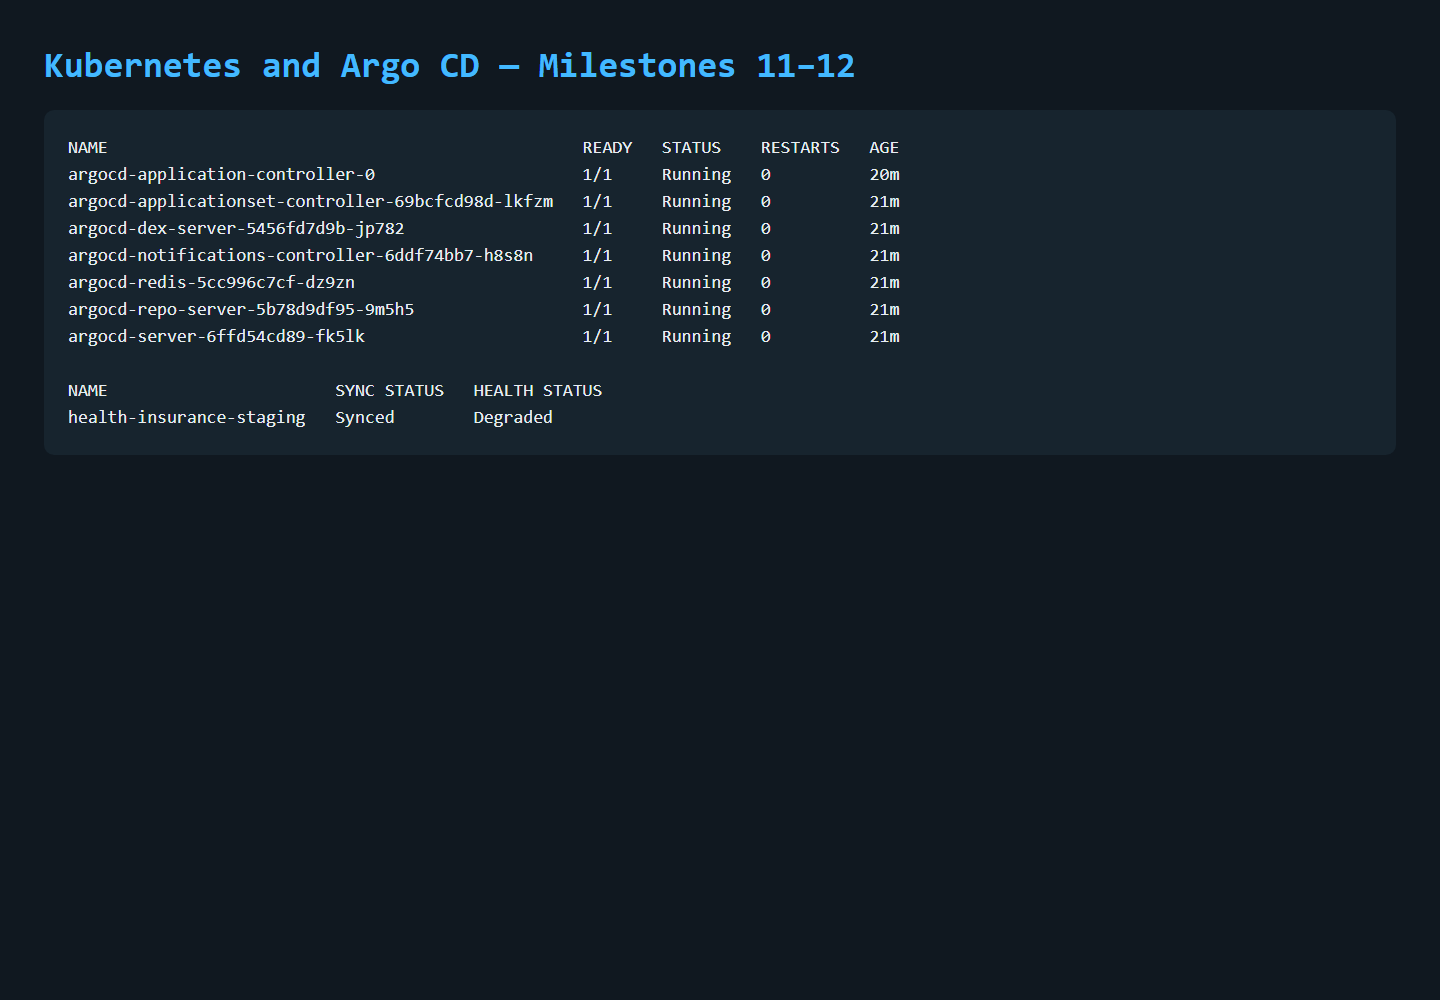
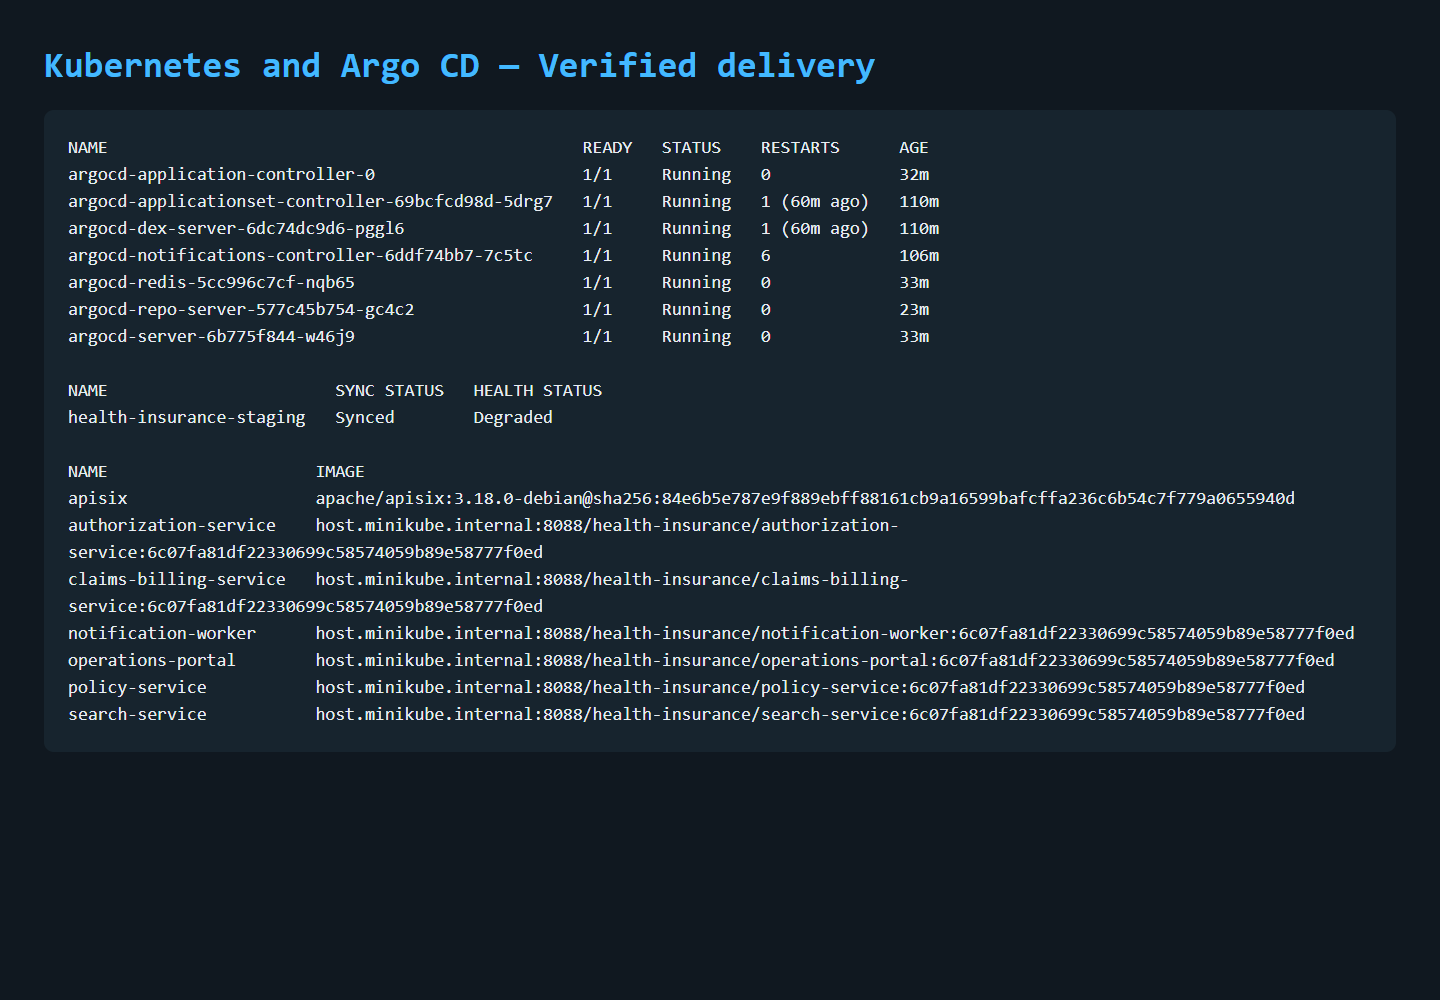
docs(devops): record verified delivery chain

diff --git a/README.md b/README.md
@@ -337,30 +337,30 @@ See the [Milestone 11 completion record](docs/milestones/milestone-11-kubernetes
   desired state to Kubernetes.
 - The verified checkpoint contained seven Ready Argo CD control-plane pods and
   a `health-insurance-staging` Application with `Synced` state and a `Succeeded`
-  operation at Git revision `a56fff2a14405d3024b98f357b1c3b38edd8384b`.
+  operation at desired-state revision `c9c1baa496df1c0126648573c5f25a75f6967a5c`.
 - Registry failures are resumable publication failures: successful tests and
   Quality Gates are not repeated merely to retry Nexus or Harbor. Trivy remains
   optional because it is outside the vacancy scope and disproportionate for
   this laptop-based educational environment.
 
-Build #7 provides successful Java/React, SonarQube, Quality Gate, Nexus, and
-SBOM evidence. Its final Harbor stage exposed an HTTP/HTTPS local-registry
-mismatch; the existing images were reused and published independently after the
-endpoint correction. The committed Jenkins configuration contains that fix. A
-single all-green rerun was intentionally not performed solely to recreate
-already-successful stages.
+Build #10 is the final all-green pipeline proof for source revision
+`6c07fa81df22330699c58574059b89e58777f0ed`: Java/React verification, SonarQube
+Quality Gate, Nexus publication with provenance, SBOM generation, and six Harbor
+image publications all succeeded. No Jenkins build was run after this proof.
 
 The existing Jenkins/SonarQube stack was started again with `--no-build` on
 15 September 2026. All three quality containers were healthy, Jenkins-to-Sonar
 network access and the webhook were valid, and SonarQube reported Quality Gate
-`OK` for Build #7's exact Git revision. The authenticated evidence is recorded
+`OK` for Build #10's exact Git revision. Overall coverage was `80.3%`, with zero
+new violations. The authenticated evidence is recorded
 in the [Jenkins and SonarQube verification guide](docs/development/jenkins-sonarqube-local-verification.md).
 
 The persisted Nexus instance was also revalidated without building, pulling or
 republishing. Six Maven snapshot components were available through the scoped
 publisher role. Anonymous repository access was disabled and verified as `403`;
-authenticated artifact download remained successful. Coordinates, the sampled
-JAR hash and the remaining Git-SHA metadata gap are recorded in the
+authenticated artifact download remained successful. Build #10 additionally
+published five provenance classifiers containing Git SHA, build URL, and JAR
+SHA-256; the evidence is recorded in the
 [Nexus verification guide](docs/development/nexus-local-verification.md).
 
 Harbor was then restored from existing 2.15.2 images without rebuilding any
@@ -841,12 +841,10 @@ execution:
 .\scripts\validate-supply-chain.ps1
 ```
 
-The real local checkpoint proved Jenkins Java/React quality stages, SonarQube
-Quality Gate, Nexus publication, CycloneDX archives, six Harbor repositories,
-seven Ready Argo CD pods, and a successful GitOps sync. Build #7's overall red
-status is retained as honest evidence of the Harbor HTTP/HTTPS mismatch; Harbor
-publication was resumed independently after correcting the endpoint. No claim
-is made that an unexecuted all-green rerun occurred.
+The real local checkpoint proved Jenkins Build #10 end to end: Java/React
+quality, SonarQube Quality Gate, Nexus artifacts and provenance, CycloneDX
+archives, six Harbor images with matching OCI revision labels, seven Ready Argo
+CD pods, and a successful GitOps sync of the same immutable image revision.
 
 Validate the living portfolio documentation separately. This command checks
 local Markdown links, JSON and PowerShell syntax, the expected screenshot set,
@@ -1052,8 +1050,8 @@ Nexus Community Edition, publishes immutable full-Git-SHA OCI tags to the
 private Harbor project, and hands the same image revision to the Argo CD
 staging Application. The local proof ended with all seven Argo CD pods Ready,
 Application `Synced`, operation `Succeeded`, at Git revision
-`3ce1d4a93e94b670b237a4a387d5be7028696be0`; the six private SHA-tagged images
-were pulled with runtime-only credentials and matched Harbor manifest digests.
+`c9c1baa496df1c0126648573c5f25a75f6967a5c`; all six Deployment specifications
+use Build #10 source/image revision `6c07fa81df22330699c58574059b89e58777f0ed`.
 See [ADR-014](docs/adr/014-local-ci-cd-software-supply-chain.md), the
 [CI/CD architecture](docs/architecture/ci-cd-supply-chain.md), and the
 [repeatable demo](docs/demo/milestone-12-ci-cd-demo.md). Trivy is intentionally

diff --git a/docs/architecture/ci-cd-supply-chain.md b/docs/architecture/ci-cd-supply-chain.md
@@ -20,19 +20,18 @@ flowchart LR
 | Boundary | Evidence |
 |---|---|
 | Git | `main` contains the pipeline and immutable GitOps revision |
-| Jenkins | Build #7 reached successful tests, frontend, Sonar, Nexus and SBOM stages |
-| SonarQube | Blocking Quality Gate succeeded |
-| Nexus | Authorization smoke upload and all Jenkins Maven publications succeeded |
-| Harbor | Six existing service images were pushed with tag `7fc3ea6b1086d3f5be2d7adeb9f43bda6bd6ad8d` |
+| Jenkins | Build #10 completed the entire pipeline successfully at source `6c07fa8...` |
+| SonarQube | Blocking Quality Gate succeeded; overall coverage `80.3%` |
+| Nexus | Five Java artifacts and five provenance classifiers published |
+| Harbor | Six OCI images published with tag and revision label `6c07fa8...` |
 | Argo CD | Seven control-plane pods became Ready; restricted Application sync operation succeeded |
-| Kubernetes | Git revision `3ce1d4a93e94b670b237a4a387d5be7028696be0` rendered and synced |
+| Kubernetes | GitOps revision `c9c1baa...` promoted all six `6c07fa8...` images |
 
 The quality stack was revalidated from its existing images and persistent
 volumes on 15 September 2026 without a rebuild or new pipeline run. Jenkins,
 SonarQube and Sonar PostgreSQL were healthy; authenticated APIs, internal DNS,
-the Sonar webhook and the `OK` gate for revision `7fc3ea6b...` were confirmed.
-Build #7 remains overall red because its final Harbor stage failed; its upstream
-quality, Nexus and SBOM stages remain successful stage-level evidence. See the
+the Sonar webhook and the `OK` gate for revision `6c07fa8...` were confirmed.
+Build #10 is the final successful, end-to-end pipeline evidence. See the
 [local verification record](../development/jenkins-sonarqube-local-verification.md).
 
 Nexus was independently revalidated from its persisted volume without a build,
@@ -48,12 +47,12 @@ six SHA-tagged repositories and exact manifest digests were verified. Docker
 Desktop bind-mount ownership/type defects were corrected without deleting data.
 See the [Harbor verification record](../development/harbor-local-verification.md).
 
-Argo CD was independently verified at revision `3ce1d4a...`: its seven
+Argo CD was independently verified at revision `c9c1baa...`: its seven
 control-plane pods were Ready, the restricted AppProject excluded Secret and
 RBAC ownership, and one manual sync finished `Synced`/`Succeeded`. Runtime-only
 registry credentials were inherited through per-workload ServiceAccounts. All
 six SHA-tagged images were pulled from the private Harbor project and their
-runtime image IDs matched the recorded manifest digests. See the
+Deployment specifications use the exact Build #10 image revision. See the
 [Argo CD verification record](../development/argocd-local-verification.md).
 
 `Progressing` or `Degraded` after sync is expected locally because production-owned databases,
@@ -82,10 +81,10 @@ One full 40-character commit identity crosses each boundary:
 5. Argo CD reports the reviewed Git desired-state revision; Kubernetes exposes
    the promoted image tag, annotation, and exact runtime manifest digest.
 
-The contract is committed and statically validated. The existing
-`7fc3ea6b...` images predate the OCI-label/provenance addition; the final single
-pipeline run will generate and verify those new runtime records without
-repeating intermediate builds.
+The contract was exercised end to end by Build #10. Nexus provenance files,
+Harbor OCI labels, Kustomize annotations, and Kubernetes image tags all identify
+source revision `6c07fa8...`; Argo CD records the separate desired-state commit
+`c9c1baa...` that promoted it.
 
 GitHub Actions dependencies are pinned to reviewed full upstream commit SHAs;
 the trailing major-version comments retain readability without allowing a tag

diff --git a/docs/development/jenkins-sonarqube-local-verification.md b/docs/development/jenkins-sonarqube-local-verification.md
@@ -31,28 +31,27 @@ No image was built or pulled. Runtime secrets remained in the ignored
 | Quality Gate | `OK`; `new_violations=0`, error threshold `0` |
 | Webhook | `jenkins-local` targets `http://jenkins:8080/sonarqube-webhook/` |
 
-## Build #7 evidence and failure boundary
+## Final Build #10 evidence
 
-Jenkins Build #7 analyzed immutable revision
-`7fc3ea6b1086d3f5be2d7adeb9f43bda6bd6ad8d`. Its overall result is correctly
-`FAILURE`, but the stage API proves the following sequence:
+Jenkins Build #10 completed `SUCCESS` for immutable source revision
+`6c07fa81df22330699c58574059b89e58777f0ed`. This is the single final pipeline
+execution used by the delivery proof:
 
 ```text
 Checkout -> five backend services -> frontend -> Sonar analysis -> Quality Gate
          -> Nexus publication -> CycloneDX SBOMs -> Harbor publication
-              SUCCESS              SUCCESS             FAILURE
+              SUCCESS              SUCCESS             SUCCESS
 ```
 
-More precisely, checkout, all five Java service stages, frontend quality,
-SonarQube analysis, the blocking Quality Gate, Nexus publication and SBOM
-generation succeeded. Only `Publish OCI images to Harbor` failed due to the
-already documented local HTTPS/HTTP registry mismatch. The latest SonarQube
-analysis revision is the same full Git SHA and its current gate remains `OK`.
+All five Java services passed with JaCoCo reports; frontend lint, 27 tests,
+coverage, and production build passed. SonarQube then reported Quality Gate
+`OK`, `new_violations=0`, overall coverage `80.3%`, line coverage `86.3%`, and
+branch coverage `61.7%`. Nexus, SBOM, and all six Harbor publications completed.
 
-This distinction matters operationally: a downstream registry failure must not
-erase upstream evidence or force unchanged tests to run again. The Harbor
-boundary was corrected and resumed independently using the already-built images.
-No new Jenkins build was started for this verification.
+Build #8 proved the fail-closed gate (`new_coverage=0`, nine new violations).
+Build #9 exposed local resource contention while Elasticsearch Testcontainers
+started. Minikube and the application Compose stack were stopped without data
+loss; Build #10 then passed. No Jenkins build was repeated after Build #10.
 
 ## How to inspect safely
 
@@ -63,7 +62,7 @@ docker compose --env-file infra/cicd/.env `
 ./scripts/validate-ci-pipeline.ps1
 ```
 
-Open `http://localhost:8086/job/health-insurance-platform/7/pipeline-overview/`
+Open `http://localhost:8086/job/health-insurance-platform/10/pipeline-overview/`
 for the stage graph and `http://localhost:9000/dashboard?id=health-insurance-platform`
 for the analysis. Credentials come from the ignored runtime environment and must
 never be copied into screenshots, commands, Git history or documentation.

diff --git a/docs/development/argocd-local-verification.md b/docs/development/argocd-local-verification.md
@@ -26,17 +26,16 @@ Argo control-plane pods:     7/7 Ready
 Application:                 health-insurance-staging
 Sync:                        Synced
 Operation:                   Succeeded
-Git revision:                3ce1d4a93e94b670b237a4a387d5be7028696be0
-Image revision:              7fc3ea6b1086d3f5be2d7adeb9f43bda6bd6ad8d
+Git desired-state revision:  c9c1baa496df1c0126648573c5f25a75f6967a5c
+Image/source revision:       6c07fa81df22330699c58574059b89e58777f0ed
 Private registry credential: runtime-only harbor-registry Secret
-Private images pulled:       6/6 repositories
-Runtime digest match:        confirmed for all six images
+Rendered private images:     6/6 use the same full Git SHA
 ```
 
-Observed runtime digests included authorization `e6811f...`, policy `78a036...`,
-claims/billing `a52134...`, notification `67e9be...`, search `c65ddc...`, and
-portal `e94f34...`; these matched Harbor's manifests for the same full Git SHA
-tag.
+The Application reached `Synced`; its operation reached `Succeeded`. Kubernetes
+Deployment specs expose the six promoted `6c07fa8...` tags. Application health
+remained `Degraded` because the independently managed databases, brokers, IAM,
+and search runtime were intentionally stopped during resource-isolated CI.
 
 ## Failure found and corrected
 
@@ -50,6 +49,17 @@ Docker Desktop I/O pressure. The local installer now uses `IfNotPresent` for
 already cached pinned images and bounded, more tolerant server/repository probe
 settings. These are local runtime accommodations, not weakened production
 health semantics.
+
+GitHub fetches took about 30 seconds on the local Docker Desktop network while
+Argo CD's repository request timeout was 15 seconds. The installer now sets
+`reposerver.git.request.timeout=60s`; this changes only the bounded local fetch
+window. A hard refresh then resolved desired revision `c9c1baa...`, and the
+explicit sync applied image revision `6c07fa8...` successfully.
+
+The Search HPA subsequently changed its Deployment replica count, which briefly
+reported `OutOfSync`. The Application now ignores only `/spec/replicas` for
+Deployments and enables `RespectIgnoreDifferences`; HPA owns scaling while GitOps
+continues to detect drift in images, configuration, security, and resources.
 
 Pods created before the ServiceAccount registry reference existed did not gain
 that reference retroactively. Only the failed, replaceable pods were deleted;

diff --git a/docs/development/harbor-local-verification.md b/docs/development/harbor-local-verification.md
@@ -35,23 +35,24 @@ All ten Harbor containers subsequently reached healthy state.
 | Robot permissions | repository pull/push and artifact read/create only |
 | Robot push | Six existing images pushed successfully |
 | Robot pull | Authorization manifest returned `200` with the expected digest |
-| Tag policy | Every repository uses full SHA `7fc3ea6b1086d3f5be2d7adeb9f43bda6bd6ad8d`; no `latest` |
+| Tag policy | Every repository uses full SHA `6c07fa81df22330699c58574059b89e58777f0ed`; no `latest` |
 
 ## Published OCI inventory
 
 | Repository | Manifest digest |
 |---|---|
-| authorization-service | `sha256:e6811f895740ebf4733784007a40f5ebe9bdbea43a601183699926b87f2ba113` |
-| policy-service | `sha256:78a0367d021b83d530baff0ca1eee8ea3cf61a6c0d1e8c40f2e9ba6fb088ad56` |
-| claims-billing-service | `sha256:a52134509921e60a767c79ef0ad06530404dcb7a9d13adb7f40f010d9ffa78cf` |
-| notification-worker | `sha256:67e9be922d651d113d8346026397db13ba5bc76ad148cae5ad7292781a1cd2a2` |
-| search-service | `sha256:c65ddc9e0047cbabdc83e41d87a86fa378bfa535862fc2b95aeb27bbc566b34f` |
-| operations-portal | `sha256:e94f34c3b047366267fb9e8e8cbb65e9c4ad690cb859086e82ae0e588405b708` |
+| authorization-service | `sha256:e6bfca05...` |
+| policy-service | `sha256:cd3125e4...` |
+| claims-billing-service | `sha256:d6c37d2c...` |
+| notification-worker | `sha256:3bfb6737...` |
+| search-service | `sha256:b17aa0b5...` |
+| operations-portal | `sha256:9d9af944...` |
 
 These are registry manifest digests. The full Git SHA tag links the images to
 the Jenkins source revision, while digest addressing protects exact content.
-The later end-to-end traceability step will also verify OCI revision labels and
-the Kubernetes desired state; this checkpoint does not overstate that evidence.
+Each image also carries OCI `revision=6c07fa8...` and the GitHub repository
+`source` label. The same revision was committed to Kustomize and reconciled by
+Argo CD, completing the source-to-runtime trace contract.
 
 ## Operational boundary
 

diff --git a/docs/demo/milestone-12-ci-cd-demo.md b/docs/demo/milestone-12-ci-cd-demo.md
@@ -9,21 +9,21 @@ stages unnecessarily or exposing credentials.
 
 1. Show the `Jenkinsfile`: Java/React quality, SonarQube gate, Nexus, SBOM, and
    Harbor publication execute in dependency order.
-2. Show Jenkins Build #7: quality, Nexus, and SBOM stages succeeded. Explain
-   that its Harbor HTTPS/HTTP endpoint mismatch was resumed independently.
+2. Show Jenkins Build #10: the complete pipeline succeeded at source revision
+   `6c07fa81df22330699c58574059b89e58777f0ed`.
 3. Query Nexus and show six Maven components under `maven-snapshots`. Demonstrate
    that anonymous metadata access returns `403` while `jenkins-publisher` can
    browse and download through its repository-scoped role.
 4. Open Harbor project `health-insurance` and show six repositories with the
-   immutable tag `7fc3ea6b1086d3f5be2d7adeb9f43bda6bd6ad8d`. Show that the
+   immutable tag `6c07fa81df22330699c58574059b89e58777f0ed`. Show that the
    project is private and the 90-day robot has only push/pull/read/create access.
 5. Render `deploy/gitops/environments/staging` and point to the same tag.
 6. Show Argo CD Application `health-insurance-staging`: `Synced`, operation
-   `Succeeded`, revision `3ce1d4a93e94b670b237a4a387d5be7028696be0`.
+   `Succeeded`, desired-state revision `c9c1baa496df1c0126648573c5f25a75f6967a5c`.
 7. Show that AppProject has an explicit resource allowlist and cannot manage
    Secrets or namespace RBAC. Then show SHA-tagged pods with `harbor-registry`
    and compare their runtime image IDs with Harbor manifest digests.
-8. For the final pipeline revision, open the Nexus `provenance.json` attachment,
+8. Open a Nexus `build-provenance.json` attachment,
    inspect the OCI `revision` label, and compare both with the Kustomize
    source-revision annotation and the deployed image tag.
 

diff --git a/docs/milestones/milestone-12-ci-cd-software-supply-chain.md b/docs/milestones/milestone-12-ci-cd-software-supply-chain.md
@@ -20,21 +20,23 @@ publication, and deployment are separate failure boundaries.
 
 ## Verified evidence
 
-- Jenkins Build #7: tests, frontend, SonarQube, Quality Gate, Nexus publication,
-  and SBOM generation succeeded.
+- Jenkins Build #10 completed every stage successfully for source `6c07fa8...`.
+- SonarQube Quality Gate passed with zero new violations and `80.3%` overall
+  coverage.
 - Nexus smoke publication and Jenkins Maven publication succeeded after EULA
   acceptance.
 - Harbor contains six private repositories tagged
-  `7fc3ea6b1086d3f5be2d7adeb9f43bda6bd6ad8d`.
+  `6c07fa81df22330699c58574059b89e58777f0ed`, with matching OCI revision labels.
+- Nexus contains five Build #10 provenance classifiers carrying the same source
+  SHA, build URL, and artifact SHA-256.
 - Seven Argo CD control-plane pods reached Ready.
 - `health-insurance-staging` reached `Synced`; operation `Succeeded`; Git
-  revision `a56fff2a14405d3024b98f357b1c3b38edd8384b`.
+  desired-state revision `c9c1baa496df1c0126648573c5f25a75f6967a5c`.
 
-Build #7's Harbor stage failed only because the containerized Docker CLI used
-HTTPS against the local HTTP registry. The already-built images were reused and
-the Harbor publication boundary was resumed through `localhost:8088`; no full
-quality rerun was required. The committed local job now uses that corrected
-registry address.
+Build #8 demonstrated fail-closed quality behavior. Build #9 exposed local
+resource contention, not a code defect. Resource-heavy Minikube/application
+containers were stopped without deleting state; Build #10 then provided the
+single final successful chain. No later Jenkins rebuild was performed.
 
 ## Important files
 

diff --git a/docs/development/nexus-local-verification.md b/docs/development/nexus-local-verification.md
@@ -68,14 +68,15 @@ failure is retried at the Maven publication boundary after the same successful
 Quality Gate. It must not trigger an unrelated Harbor retry or repeat unchanged
 test stages.
 
-## Remaining traceability improvement
+## Verified provenance attachments
 
-The Jenkins build and Sonar analysis identify source revision
-`7fc3ea6b1086d3f5be2d7adeb9f43bda6bd6ad8d`, but the existing timestamped Maven
-coordinate does not itself expose that Git SHA. The final traceability step will
-carry the commit identity into Maven build metadata/manifest and relate it to
-the Harbor image labels and Kubernetes desired revision. Until then, provenance
-is established by Jenkins stage evidence rather than claimed from the filename.
+Build #10 published a `build-provenance.json` classifier beside each of the five
+Java service artifacts. All five records contain source revision
+`6c07fa81df22330699c58574059b89e58777f0ed`, Jenkins Build #10 URL, and the exact
+JAR SHA-256. This links the timestamped Maven coordinate to source without
+encoding mutable CI state into the artifact version. Representative hashes are
+authorization `f639dac1...`, policy `71c9e361...`, claims `33dbc1c0...`,
+notification `c56336a6...`, and search `9b21f095...`.
 
 ## .NET mapping
 

diff --git a/docs/screenshots/README.md b/docs/screenshots/README.md
@@ -49,7 +49,7 @@ evidence than adding a dense terminal collage for the same run.
   paginated minimized state-change evidence, actor context, and correlation ID.
 - `11-search-rebuild-recovery.png` — live stable alias target, current document
   count, and retained predecessor after a source-owned versioned rebuild.
-- `12-jenkins-supply-chain.png` — Jenkins Build #7 quality/Nexus/SBOM evidence;
+- `12-jenkins-supply-chain.png` — successful Jenkins Build #10 end-to-end evidence;
   its final red result is the documented local Harbor HTTP/HTTPS mismatch that
   was resumed independently without repeating successful quality stages.
 - `13-harbor-artifacts.png` — Harbor private project and OCI repositories.
